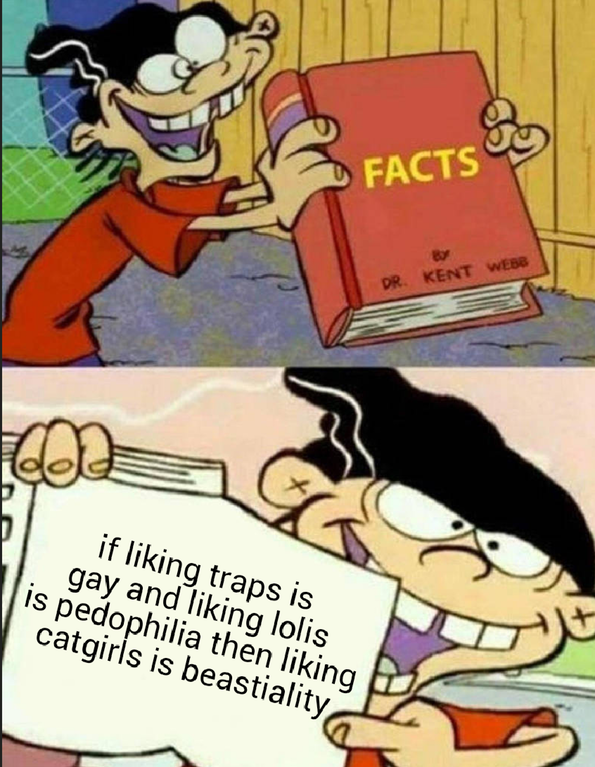
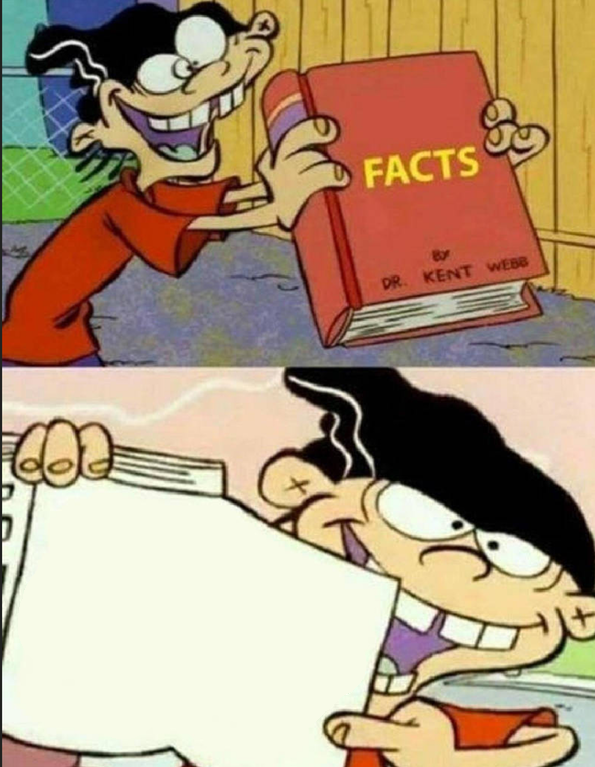
attempt 2

Changed region(s): [[0.0303, 0.6897, 0.605, 0.9296]]

diff --git a/cogs/images.py b/cogs/images.py
@@ -229,7 +229,7 @@ class imagesCog:
             d = ImageDraw.Draw(textarea)
             d.multiline_text((0,0), arg, fill=(0,0,0,255), font=font, spacing=10, align='center')
             textarea.rotate(16)
-            image = self.picInPic(textarea, background, (50, 500), (300, 200))
+            image = self.picInPic(textarea, background, (0, 0), (344, 276))
             output = BytesIO()
             image.save(output, format="PNG")
             image = output.getvalue()
